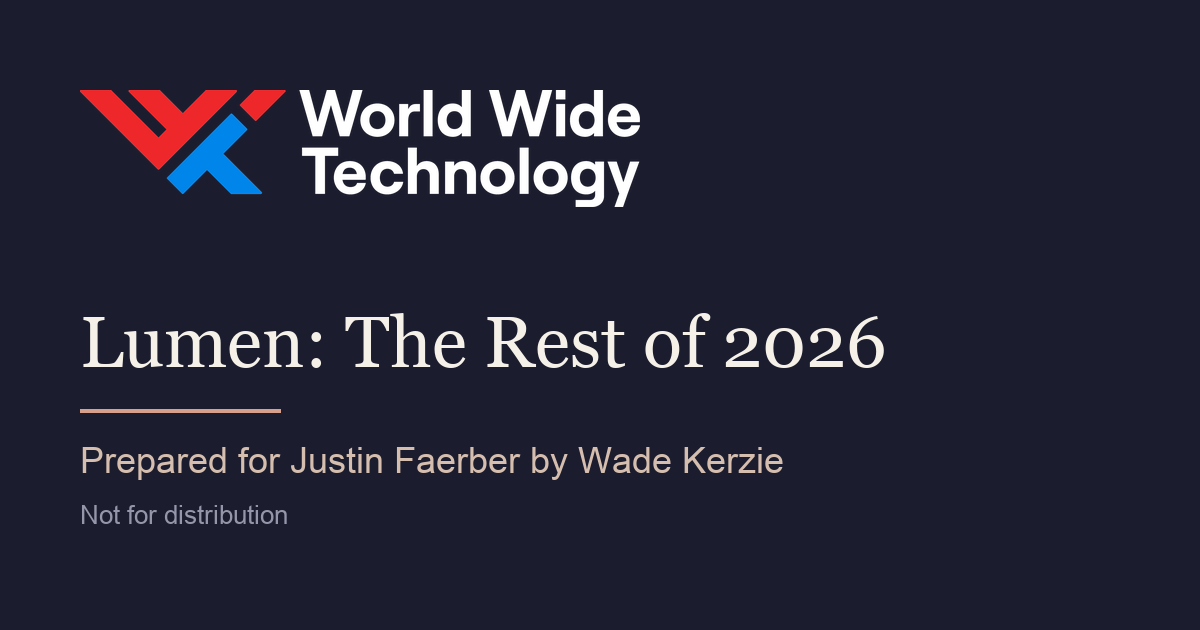
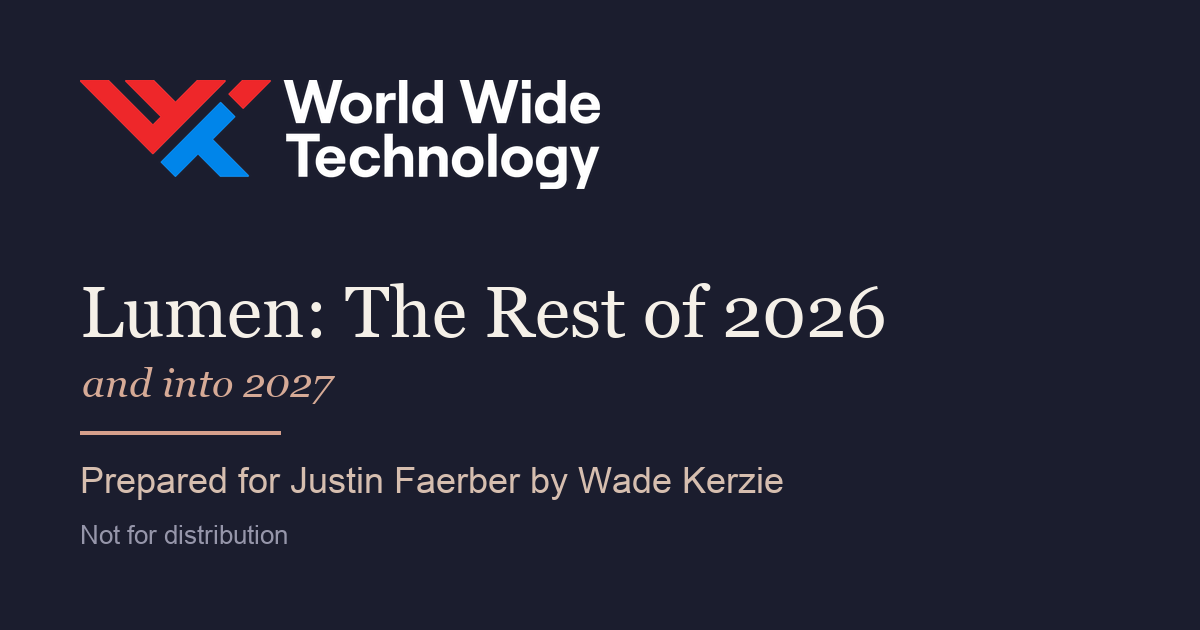
Plan page: 'and into 2027' subtitle, Strategic Resources language

Changed region(s): [[0.0617, 0.4524, 0.74, 0.8746], [0.0617, 0.1206, 0.555, 0.3317]]

diff --git a/public/lumen.html b/public/lumen.html
@@ -4,14 +4,14 @@
   <meta charset="utf-8">
   <meta name="viewport" content="width=device-width, initial-scale=1">
   <meta name="robots" content="noindex, nofollow, noarchive">
-  <title>Lumen: The Rest of 2026 · Wade Kerzie</title>
+  <title>Lumen: The Rest of 2026 and into 2027 · Wade Kerzie</title>
   <meta property="og:type" content="website">
-  <meta property="og:title" content="Lumen: The Rest of 2026">
+  <meta property="og:title" content="Lumen: The Rest of 2026 and into 2027">
   <meta property="og:description" content="A plan prepared for Justin Faerber by Wade Kerzie.">
   <meta property="og:image" content="https://www.wadekerzie.com/lumen-og.png">
   <meta property="og:image:width" content="1200">
   <meta property="og:image:height" content="630">
-  <meta property="og:image:alt" content="World Wide Technology. Lumen: The Rest of 2026. Prepared for Justin Faerber by Wade Kerzie.">
+  <meta property="og:image:alt" content="World Wide Technology. Lumen: The Rest of 2026 and into 2027. Prepared for Justin Faerber by Wade Kerzie.">
   <link rel="icon" href="/favicon.svg" type="image/svg+xml">
   <meta name="twitter:card" content="summary_large_image">
   <meta name="description" content="A plan prepared for Justin Faerber by Wade Kerzie.">
@@ -133,6 +133,7 @@
       color: var(--cream);
     }
     .hero h1 em { font-style: italic; color: var(--coral-soft); }
+    .hero h1 .h1-sub { display: block; margin-top: 14px; font-size: max(0.32em, 20px); font-style: italic; letter-spacing: 0.01em; color: var(--coral-soft); opacity: 0.85; }
     .hero .meta {
       margin-top: 30px;
       display: flex;
@@ -559,7 +560,7 @@
       </div>
       <div class="hero-body">
         <p class="eyebrow reveal in">Prepared by Wade Kerzie for Justin Faerber</p>
-        <h1 class="reveal d1 in">Lumen:<br>The Rest of <em>2026</em></h1>
+        <h1 class="reveal d1 in">Lumen:<br>The Rest of <em>2026</em><span class="h1-sub">and into 2027</span></h1>
         <div class="meta reveal d2 in">
           <span class="for">Not for distribution.</span>
           <span>Assuming a start on or around Monday, October 26, 2026</span>
@@ -634,7 +635,7 @@
             <div class="num">The labor gap</div>
             <h3>Fewer people, same network</h3>
             <p>Lumen cut staff. The network still has to be built and maintained. So Lumen buys outside crews in short engagements rather than adding headcount.</p>
-            <p>That is work WWT already sells.</p>
+            <p>That is where WWT's Strategic Resources fit.</p>
           </article>
         </div>
         <div class="callout reveal">
@@ -663,7 +664,7 @@
             <h3>WWT's core services, pointed at Lumen</h3>
             <p>Nothing has to be invented to start. WWT's existing service portfolio already covers what Lumen has to do with fewer people. The specific needs are discovered in the first weeks, with the groups that own the work, not guessed from the outside.</p>
             <ul>
-              <li><strong>Strategic resourcing and deployment.</strong> Staffing, field install, and engineer-furnish-install (EF&amp;I). The direct answer to the labor gap after the staff cuts.</li>
+              <li><strong>Strategic Resources and deployment.</strong> Highly trained specialists placed at Lumen to take on work Lumen used to staff itself, from Cisco-trained engineers to AI security, plus field install and engineer-furnish-install (EF&amp;I). The direct answer to the labor gap after the staff cuts.</li>
               <li><strong>Consulting and engineering.</strong> Design and architecture help for a network being rebuilt for the AI economy.</li>
               <li><strong>ATC lab services and the AI Proving Ground.</strong> Test and prove it before the capital is committed. That is the payback story cap gov wants to see.</li>
               <li><strong>Supply chain and integration.</strong> Warehousing, staging, kitting, integration centers and logistics, for a network refresh happening at scale.</li>
